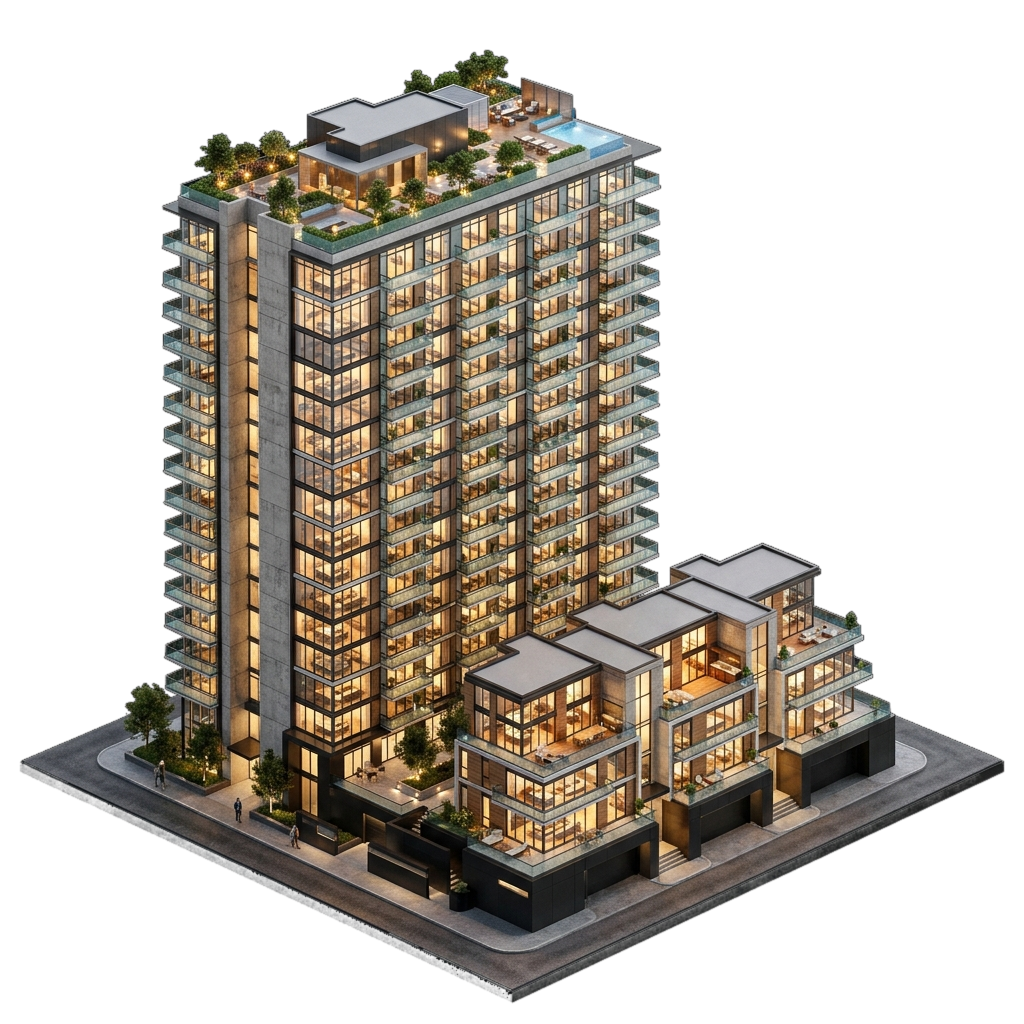
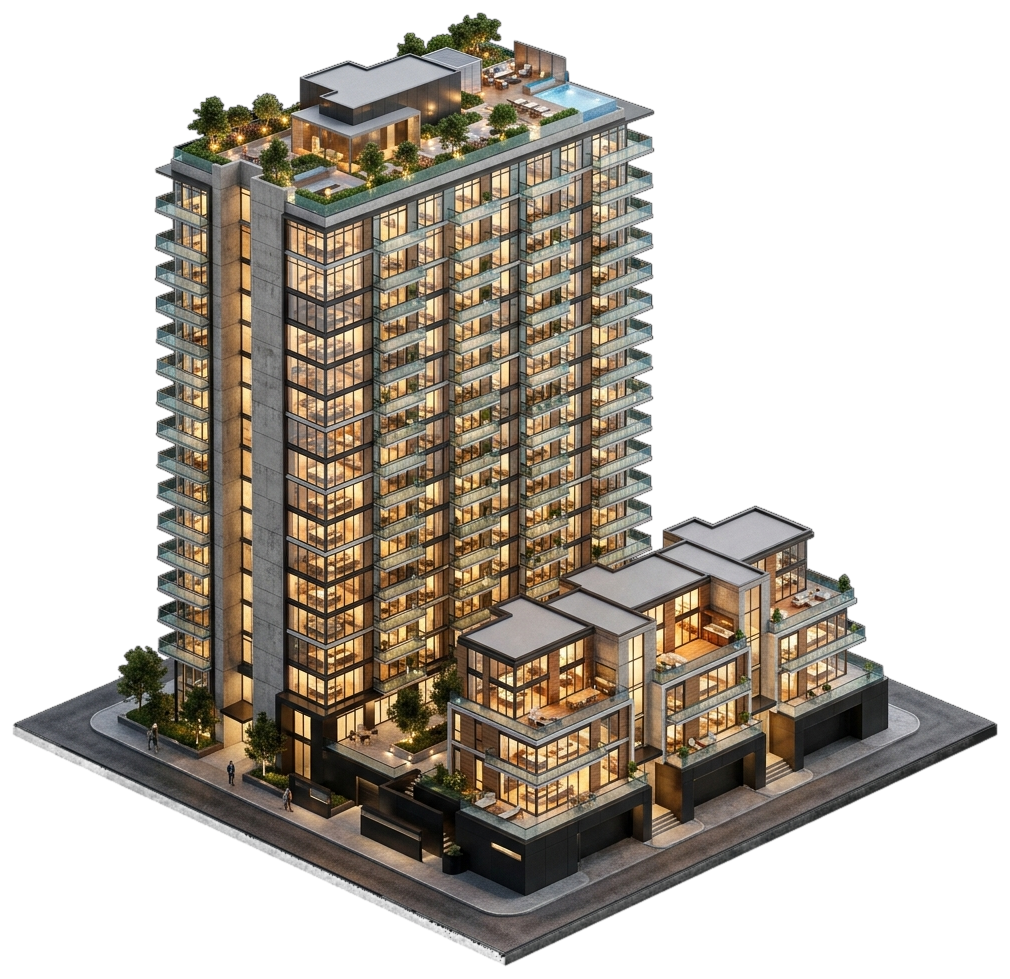
fix(ui): balance mobile info pages hero layout, crop phantom padding, and add dynamic vertical mobile cover

diff --git a/src/pages/AdminPortal.jsx b/src/pages/AdminPortal.jsx
@@ -59,7 +59,8 @@ import {
   Plus,
   Star,
   Tag,
-  Loader2
+  Loader2,
+  Smartphone
 } from 'lucide-react';
 import { mockApi, applySiteTheme, safeArray, isFakeProperty, DEFAULT_SITE_CONFIG } from '../services/mockApi';
 import { DEFAULT_SHOWCASE_PROPERTIES } from '../services/showcaseProperties.js';
@@ -122,18 +123,17 @@ function MediaUploadInput({ label, value, onChange, placeholder = 'Paste image/v
         const img = new Image();
         img.onload = () => {
           try {
-            const MAX_WIDTH = 1920;
-            const MAX_HEIGHT = 1080;
+            const MAX_DIMENSION = 1920;
             let width = img.width;
             let height = img.height;
 
-            if (width > MAX_WIDTH || height > MAX_HEIGHT) {
-              if (width / height > MAX_WIDTH / MAX_HEIGHT) {
-                height = Math.round((height * MAX_WIDTH) / width);
-                width = MAX_WIDTH;
+            if (width > MAX_DIMENSION || height > MAX_DIMENSION) {
+              if (width > height) {
+                height = Math.round((height * MAX_DIMENSION) / width);
+                width = MAX_DIMENSION;
               } else {
-                width = Math.round((width * MAX_HEIGHT) / height);
-                height = MAX_HEIGHT;
+                width = Math.round((width * MAX_DIMENSION) / height);
+                height = MAX_DIMENSION;
               }
             }
 
@@ -3814,12 +3814,13 @@ export default function AdminPortal({ onNavigate }) {
 
                       <div>
                         <MediaUploadInput
-                          label="Hero Background Image Cover"
+                          label="Hero Background Image Cover (Desktop / Default)"
                           value={siteConfig.homepage?.heroBackgroundImage || ''}
                           onChange={(val) => updateCmsConfig(prev => ({ ...prev, homepage: { ...prev.homepage, heroBackgroundImage: val } }))}
+                          placeholder="Paste desktop image URL or select landscape file..."
                         />
                         <div className="flex flex-wrap items-center gap-2 mt-2 pt-2 border-t border-gray-100">
-                          <span className="text-[11px] font-bold text-gray-500">Quick Presets:</span>
+                          <span className="text-[11px] font-bold text-gray-500">Quick Presets (Desktop):</span>
                           <button
                             type="button"
                             onClick={() => updateCmsConfig(prev => ({ ...prev, homepage: { ...prev.homepage, heroBackgroundImage: '/easeland_hero_bg.jpg' } }))}
@@ -3835,6 +3836,34 @@ export default function AdminPortal({ onNavigate }) {
                             High-Res Plotted Landscape
                           </button>
                         </div>
+                        <p className="text-[11px] text-gray-500 mt-1 font-medium">Desktop landscape version (recommended: 16:9 ratio, 1920x1080).</p>
+                      </div>
+
+                      <div className="pt-2 border-t border-gray-100">
+                        <MediaUploadInput
+                          label="Hero Background Image Cover Mobile version"
+                          value={siteConfig.homepage?.heroBackgroundImageMobile || ''}
+                          onChange={(val) => updateCmsConfig(prev => ({ ...prev, homepage: { ...prev.homepage, heroBackgroundImageMobile: val } }))}
+                          placeholder="Paste mobile image URL or select portrait file..."
+                        />
+                        <div className="flex flex-wrap items-center gap-2 mt-2 pt-2 border-t border-gray-100">
+                          <span className="text-[11px] font-bold text-gray-500">Quick Presets (Mobile):</span>
+                          <button
+                            type="button"
+                            onClick={() => updateCmsConfig(prev => ({ ...prev, homepage: { ...prev.homepage, heroBackgroundImageMobile: '/easeland_hero_mobile.jpg' } }))}
+                            className="text-[11px] font-bold text-indigo-700 bg-indigo-50 hover:bg-indigo-100 px-2.5 py-1 rounded-lg border border-indigo-200 transition-colors cursor-pointer"
+                          >
+                            Mobile Vertical Preset (9:16)
+                          </button>
+                          <button
+                            type="button"
+                            onClick={() => updateCmsConfig(prev => ({ ...prev, homepage: { ...prev.homepage, heroBackgroundImageMobile: '' } }))}
+                            className="text-[11px] font-bold text-gray-600 bg-gray-50 hover:bg-gray-100 px-2.5 py-1 rounded-lg border border-gray-200 transition-colors cursor-pointer"
+                          >
+                            Fallback to Desktop Image
+                          </button>
+                        </div>
+                        <p className="text-[11px] text-gray-500 mt-1 font-medium">PWA mobile version with dynamic vertical visible aspect ratio (recommended: 9:16 or portrait ratio, e.g. 720x1280 or 1080x1920). If not set, smoothly falls back to the desktop cover.</p>
                       </div>
 
                       <div className="bg-amber-50/80 p-4 rounded-xl border border-amber-200 flex flex-col sm:flex-row sm:items-center justify-between gap-3 mt-4">

diff --git a/src/components/HeroSearch.jsx b/src/components/HeroSearch.jsx
@@ -454,18 +454,28 @@ export default function HeroSearch({ onSearch, isCompact = false, initialState =
   }
 
   return (
-    <div className="home-hero-dynamic relative bg-metallic-dark text-white pt-12 pb-20 lg:py-4 xl:py-6 lg:min-h-[calc(100dvh-5rem)] lg:flex lg:flex-col lg:justify-center px-4 sm:px-6 lg:px-8 border-b border-slate-800">
+    <div className="home-hero-dynamic relative bg-metallic-dark text-white pt-8 pb-14 sm:pt-12 sm:pb-20 lg:py-4 xl:py-6 lg:min-h-[calc(100dvh-5rem)] lg:flex lg:flex-col lg:justify-center px-4 sm:px-6 lg:px-8 border-b border-slate-800">
 
-      {/* Dynamic CMS Hero Background Image */}
+      {/* Dynamic CMS Hero Background Image (Desktop & Mobile PWA Versions) */}
       {(() => {
-        const raw = siteConfig?.homepage?.heroBackgroundImage || siteConfig?.media?.heroBannerUrl;
-        const clean = (typeof raw === 'string') ? raw.trim() : '';
-        const heroSrc = (!clean || clean.includes('photo-1500382017468-9049fed747ef')) ? '/easeland_hero_bg.jpg' : clean;
+        const rawDesktop = siteConfig?.homepage?.heroBackgroundImage || siteConfig?.media?.heroBannerUrl;
+        const cleanDesktop = (typeof rawDesktop === 'string') ? rawDesktop.trim() : '';
+        const heroDesktopSrc = (!cleanDesktop || cleanDesktop.includes('photo-1500382017468-9049fed747ef')) ? '/easeland_hero_bg.jpg' : cleanDesktop;
+
+        const rawMobile = siteConfig?.homepage?.heroBackgroundImageMobile;
+        const cleanMobile = (typeof rawMobile === 'string') ? rawMobile.trim() : '';
+        const heroMobileSrc = (!cleanMobile || cleanMobile.includes('photo-1500382017468-9049fed747ef'))
+          ? (cleanMobile || '/easeland_hero_mobile.jpg' || heroDesktopSrc)
+          : cleanMobile;
         return (
           <div className="absolute inset-0 overflow-hidden pointer-events-none">
             <div
-              className="absolute inset-0 bg-cover bg-center pointer-events-none opacity-95 transition-opacity duration-700"
-              style={{ backgroundImage: 'url("' + heroSrc + '")' }}
+              className="hidden md:block absolute inset-0 bg-cover bg-center bg-no-repeat pointer-events-none opacity-95 transition-opacity duration-700"
+              style={{ backgroundImage: 'url("' + heroDesktopSrc + '")', backgroundPosition: 'center center', backgroundSize: 'cover' }}
+            />
+            <div
+              className="md:hidden absolute inset-0 bg-cover bg-center bg-no-repeat pointer-events-none opacity-95 transition-opacity duration-700"
+              style={{ backgroundImage: 'url("' + heroMobileSrc + '")', backgroundPosition: 'center center', backgroundSize: 'cover' }}
             />
             <div className="absolute inset-0 bg-gradient-to-b from-black/30 via-black/15 to-black/45 pointer-events-none" />
           </div>

diff --git a/src/pages/infoPagesMobileViewport.test.js b/src/pages/infoPagesMobileViewport.test.js
@@ -139,4 +139,33 @@ describe('EaseLand Info Pages Dynamic Viewport Hero Sizing Suite', () => {
     assert.ok(heroSearchContent.includes('home-subtitle-fluid'), 'HeroSearch must use home-subtitle-fluid');
     assert.ok(heroSearchContent.includes('home-card-fluid'), 'HeroSearch must use home-card-fluid');
   });
+
+  it('6. Verifies Home Page Hero Mobile Cover and dynamic vertical aspect ratio in Site Management Panel & HeroSearch', () => {
+    // 1. mockApi.js contains heroBackgroundImageMobile default & sanitization
+    const mockApiPath = path.join(rootDir, 'src', 'services', 'mockApi.js');
+    const mockApiContent = fs.readFileSync(mockApiPath, 'utf8');
+    assert.ok(mockApiContent.includes('heroBackgroundImageMobile'), 'DEFAULT_SITE_CONFIG must define heroBackgroundImageMobile');
+    assert.ok(mockApiContent.includes('/easeland_hero_mobile.jpg'), 'DEFAULT_SITE_CONFIG must provide /easeland_hero_mobile.jpg preset');
+
+    // 2. AdminPortal contains CMS control for Mobile Cover
+    const adminPortalPath = path.join(rootDir, 'src', 'pages', 'AdminPortal.jsx');
+    const adminPortalContent = fs.readFileSync(adminPortalPath, 'utf8');
+    assert.ok(adminPortalContent.includes('Hero Background Image Cover Mobile version'), 'AdminPortal must provide Mobile version cover input');
+    assert.ok(adminPortalContent.includes('Mobile Vertical Preset (9:16)'), 'AdminPortal must provide 9:16 quick preset');
+    assert.ok(adminPortalContent.includes('heroBackgroundImageMobile'), 'AdminPortal must bind heroBackgroundImageMobile state');
+
+    // 3. HeroSearch renders distinct desktop & mobile background layers
+    const heroSearchPath = path.join(rootDir, 'src', 'components', 'HeroSearch.jsx');
+    const heroSearchContent = fs.readFileSync(heroSearchPath, 'utf8');
+    assert.ok(heroSearchContent.includes('heroMobileSrc'), 'HeroSearch must extract heroMobileSrc');
+    assert.ok(heroSearchContent.includes('heroDesktopSrc'), 'HeroSearch must extract heroDesktopSrc');
+    assert.ok(heroSearchContent.includes('md:hidden absolute inset-0'), 'HeroSearch must render mobile-only cover layer');
+    assert.ok(heroSearchContent.includes('hidden md:block absolute inset-0'), 'HeroSearch must render desktop-only cover layer');
+
+    // 4. index.css defines mobile dynamic vertical aspect ratio rules for home-hero-dynamic
+    const cssPath = path.join(rootDir, 'src', 'index.css');
+    const cssContent = fs.readFileSync(cssPath, 'utf8');
+    assert.ok(cssContent.includes('.home-hero-dynamic'), 'index.css must define .home-hero-dynamic');
+    assert.ok(cssContent.includes('min-height: calc(100dvh - 8.5rem)'), 'home-hero-dynamic and info-hero-dynamic must support edge-to-edge flagship mobile viewports');
+  });
 });

diff --git a/src/index.css b/src/index.css
@@ -762,6 +762,19 @@ textarea,
   }
 }
 
+/* Flagship edge-to-edge screens with tall aspect ratio (>= 19:9) */
+@media screen and (max-width: 767px) and (min-aspect-ratio: 9/19) {
+  .info-hero-dynamic {
+    min-height: calc(100vh - 8.5rem);
+    min-height: calc(100dvh - 8.5rem);
+  }
+  @supports (padding-bottom: env(safe-area-inset-bottom)) {
+    .info-hero-dynamic {
+      min-height: calc(100dvh - 8.5rem - env(safe-area-inset-bottom, 0px));
+    }
+  }
+}
+
 /* Tablet (sm: >= 640px to < 768px): Top navbar is 5rem (h-20), bottom nav is 4rem (total 9rem) */
 @media (min-width: 640px) and (max-width: 767px) {
   .info-hero-dynamic {
@@ -803,7 +816,50 @@ textarea,
    while preserving mobile PWA padding and layout without hardcoding.
 */
 .home-hero-dynamic {
-  /* Mobile and PWA defaults preserved as set by component padding */
+  min-height: calc(100vh - 8rem);
+  min-height: calc(100dvh - 8rem);
+  display: flex;
+  flex-direction: column;
+  justify-content: center;
+  position: relative;
+}
+
+@supports (padding-bottom: env(safe-area-inset-bottom)) {
+  .home-hero-dynamic {
+    min-height: calc(100dvh - 8rem - env(safe-area-inset-bottom, 0px));
+  }
+}
+
+/* Flagship edge-to-edge screens with tall aspect ratio (>= 19:9) */
+@media screen and (max-width: 767px) and (min-aspect-ratio: 9/19) {
+  .home-hero-dynamic {
+    min-height: calc(100vh - 8.5rem);
+    min-height: calc(100dvh - 8.5rem);
+  }
+  @supports (padding-bottom: env(safe-area-inset-bottom)) {
+    .home-hero-dynamic {
+      min-height: calc(100dvh - 8.5rem - env(safe-area-inset-bottom, 0px));
+    }
+  }
+}
+
+@media (min-width: 640px) and (max-width: 767px) {
+  .home-hero-dynamic {
+    min-height: calc(100vh - 9rem);
+    min-height: calc(100dvh - 9rem);
+  }
+  @supports (padding-bottom: env(safe-area-inset-bottom)) {
+    .home-hero-dynamic {
+      min-height: calc(100dvh - 9rem - env(safe-area-inset-bottom, 0px));
+    }
+  }
+}
+
+@media (min-width: 768px) and (max-width: 1023px) {
+  .home-hero-dynamic {
+    min-height: calc(100vh - 5rem);
+    min-height: calc(100dvh - 5rem);
+  }
 }
 
 @media (min-width: 1024px) {

diff --git a/src/services/mockApi.js b/src/services/mockApi.js
@@ -332,7 +332,8 @@ export const DEFAULT_SITE_CONFIG = {
     heroSubtitle: '100% verified listings. Zero boundary disputes & crystal-clear titles. Explore land plots, houses, apartments, and commercial spaces on our interactive map across all of India.',
     showSearchCard: true,
     showPopularSearches: true,
-    heroBackgroundImage: '/easeland_hero_bg.jpg'
+    heroBackgroundImage: '/easeland_hero_bg.jpg',
+    heroBackgroundImageMobile: '/easeland_hero_mobile.jpg'
   },
   navbar: {
     logoTextPrefix: 'Ease',
@@ -557,10 +558,14 @@ export const sanitizeSiteConfig = (cfg) => {
     }
   }
 
-  // 9. Upgrade legacy stock hero image to generated high-res landscape
+  // 9. Upgrade legacy stock hero image to generated high-res landscape and mobile vertical cover
   if (!sanitized.homepage?.heroBackgroundImage || (typeof sanitized.homepage.heroBackgroundImage === 'string' && sanitized.homepage.heroBackgroundImage.includes('photo-1500382017468-9049fed747ef'))) {
     if (!sanitized.homepage) sanitized.homepage = {};
     sanitized.homepage.heroBackgroundImage = DEFAULT_SITE_CONFIG.homepage.heroBackgroundImage;
+  }
+  if (!sanitized.homepage?.heroBackgroundImageMobile || (typeof sanitized.homepage.heroBackgroundImageMobile === 'string' && sanitized.homepage.heroBackgroundImageMobile.includes('photo-1500382017468-9049fed747ef'))) {
+    if (!sanitized.homepage) sanitized.homepage = {};
+    sanitized.homepage.heroBackgroundImageMobile = DEFAULT_SITE_CONFIG.homepage.heroBackgroundImageMobile;
   }
   if (!sanitized.media?.heroBannerUrl || (typeof sanitized.media.heroBannerUrl === 'string' && sanitized.media.heroBannerUrl.includes('photo-1500382017468-9049fed747ef'))) {
     if (!sanitized.media) sanitized.media = {};
